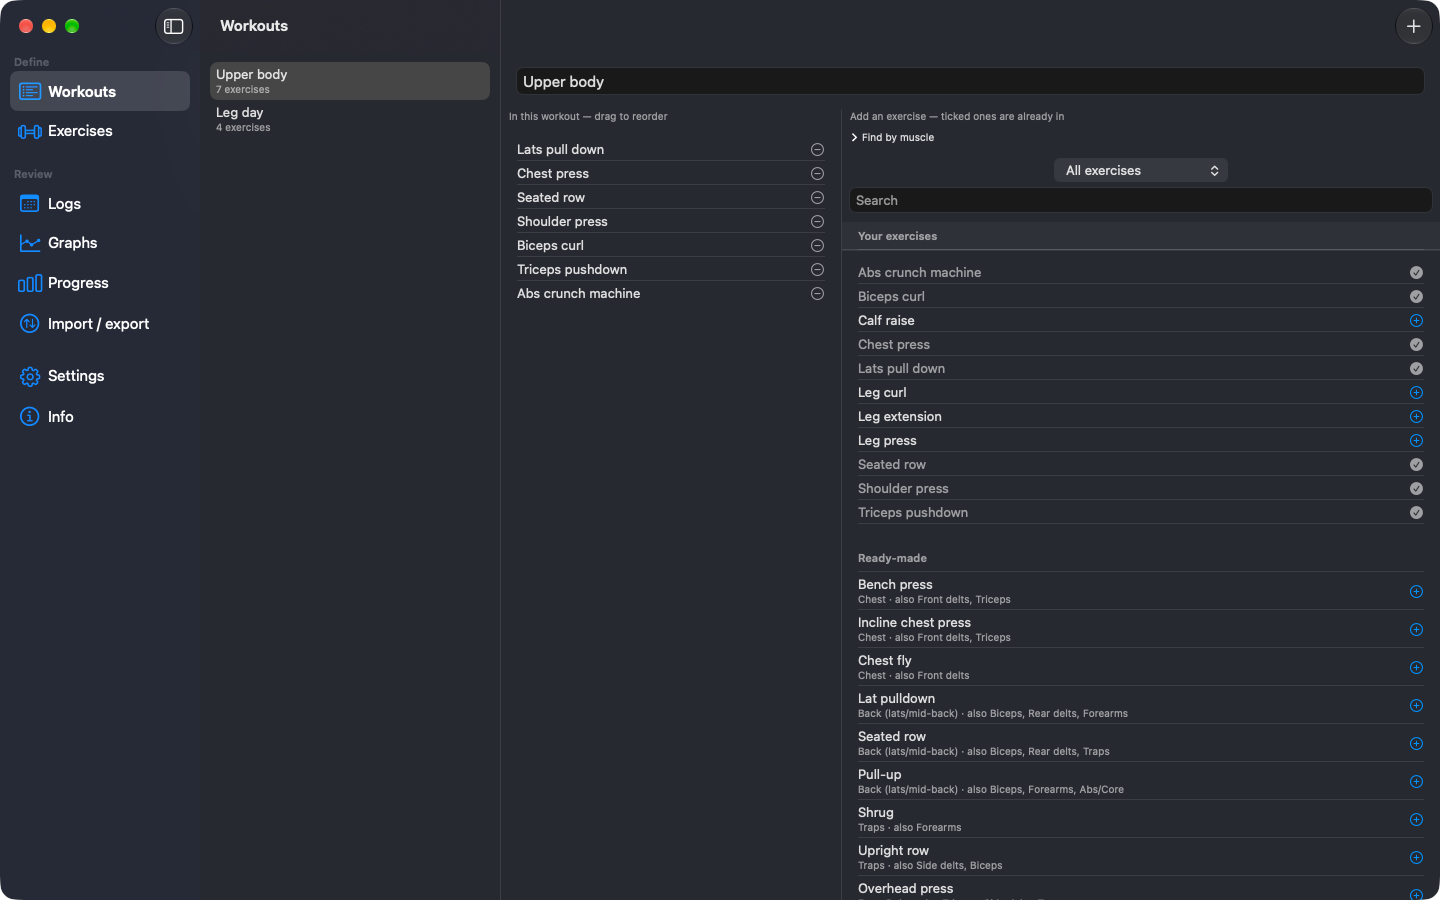
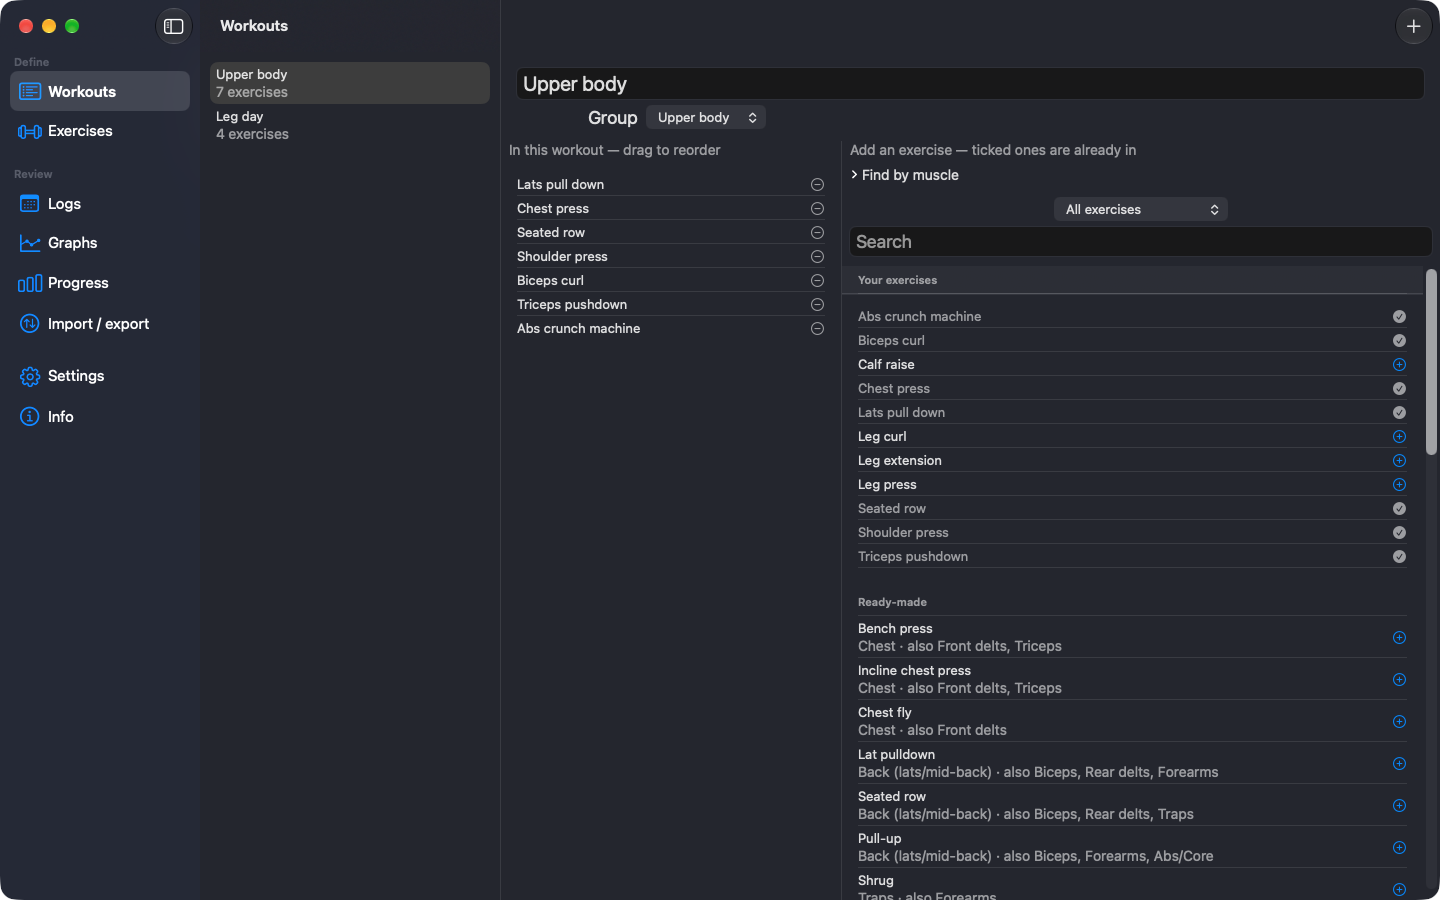
The sample data has its workouts in groups
The Mac workouts screenshot carried an orange "Scheduling needs a group",
because the seeded workouts had none and this Mac has grouping switched on.
That is a state the app will not let anybody reach: WorkoutGrouping.canEnable
refuses the switch until every workout is in a group.

A group each, named after the workout, rather than one group holding both:
a group means the same session done two ways, which Upper body and Leg day
are not.

Whether the Group row is drawn at all stays the Mac's own setting. The
grouping key travels through SyncedSettings, so a screenshot run that wrote
it would change what the user sees on every device — and it does not need
to: with grouping off there is no row, and with it on there is now a group
to show.

diff --git a/workout_aicode_MacOS/MacDemoData.swift b/workout_aicode_MacOS/MacDemoData.swift
@@ -84,10 +84,33 @@ enum MacDemoData {
         let lower = define(legDay)
 
 
+        // A group each, and every workout in one.
+        //
+        // Not decoration: `WorkoutGrouping.canEnable` will not let grouping be
+        // switched on until no workout is without a group, so a seed that made
+        // none could only ever be photographed in a state the app itself
+        // refuses — and on a Mac with grouping already on, the workouts screen
+        // said "Scheduling needs a group" in orange, in the picture that went
+        // to Apple. Whether the row is drawn at all is the Mac's own setting
+        // and is deliberately left alone here: with grouping off there is no
+        // row, with it on there is a group to show, and neither needs this
+        // run to change what the user has set.
+        //
+        // One group per workout rather than one holding both, because a group
+        // means workouts that are the same session done two ways — the two
+        // gyms in `WorkoutGrouping` — and "Upper body" and "Leg day" are not
+        // that. This is what somebody who trains at one gym would have.
+        let upperGroup = WorkoutGroupDef(name: "Upper body", sortIndex: 0)
+        let legGroup = WorkoutGroupDef(name: "Leg day", sortIndex: 1)
+        context.insert(upperGroup)
+        context.insert(legGroup)
+
         let upperWorkout = WorkoutDef(name: "Upper body",
-                                      exerciseOrder: upper.map(\.0.id), sortIndex: 0)
+                                      exerciseOrder: upper.map(\.0.id), sortIndex: 0,
+                                      groupId: upperGroup.id)
         let legWorkout = WorkoutDef(name: "Leg day",
-                                    exerciseOrder: lower.map(\.0.id), sortIndex: 1)
+                                    exerciseOrder: lower.map(\.0.id), sortIndex: 1,
+                                    groupId: legGroup.id)
         context.insert(upperWorkout)
         context.insert(legWorkout)
 
